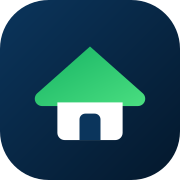
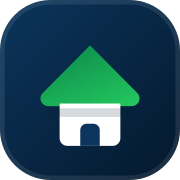
Refresh the Properties Pak mark and publish WordbitX social profiles
Logo: the roof now uses the site's own greens (forest-700 -> forest-500) instead
of the mismatched #16B364 -> #4ADE80 ramp, with a tighter eave, a hairline inner
ring on the tile and a soft shadow under the eave so the mark keeps depth at
navbar size. Applied to the React mark, app/icon.svg, the asset generator (PNG
+ ICO regenerated) and the OG card.

Footer: real WordbitX profiles (Instagram, LinkedIn, YouTube, X, TikTok) now
render as a Follow WordbitX row, wired to SITE.companySocial so empty platforms
are omitted, plus a TikTok icon. The parent Organization sameAs no longer points
at bare linkedin.com/facebook.com/instagram.com roots. Design proof sheets saved
under docs/brand/.

diff --git a/src/components/icons.tsx b/src/components/icons.tsx
@@ -302,6 +302,14 @@ export function IconYouTube(props: IconProps) {
   );
 }
 
+export function IconTikTok(props: IconProps) {
+  return (
+    <svg viewBox="0 0 24 24" aria-hidden="true" fill="currentColor" {...props}>
+      <path d="M16.5 2.6c.4 2.1 1.7 3.3 3.9 3.5v2.7c-1.4.05-2.7-.35-3.9-1.15v6.5c0 3.9-2.9 6.35-6.2 5.75-2.5-.45-4.1-2.5-3.95-5.15.15-2.7 2.4-4.6 5.1-4.35.3.03.5.05.75.12v2.85c-.25-.08-.5-.13-.75-.15-1.3-.1-2.35.75-2.4 2-.05 1.2.85 2.1 2.05 2.05 1.2-.05 2.05-.95 2.05-2.3V2.6Z" />
+    </svg>
+  );
+}
+
 export function IconX(props: IconProps) {
   return (
     <svg viewBox="0 0 24 24" aria-hidden="true" fill="currentColor" {...props}>
@@ -316,26 +324,31 @@ export function IconX(props: IconProps) {
 
 /**
  * Properties Pak brand mark — a green canopy roof over a solid body with a
- * navy doorway on a deep-navy tile. Vector-only so it stays crisp from 16px
- * favicons up to the 512px app icon.
+ * navy doorway on a deep-navy tile. The roof uses the site's own greens
+ * (forest-700 → forest-500), the eave casts a hairline shadow so the mark keeps
+ * depth at large sizes, and the tile carries a 9% inner ring so it stays crisp
+ * on light backgrounds. Vector-only so it reads cleanly from 16px favicons up
+ * to the 512px app icon.
  */
 export function IconLogo({ className }: { className?: string }) {
   return (
     <svg viewBox="0 0 48 48" aria-hidden="true" className={className}>
       <defs>
-        <linearGradient id="ppMarkBg" x1="0" y1="0" x2="1" y2="1">
+        <linearGradient id="ppMarkTile" x1="0" y1="0" x2="1" y2="1">
           <stop offset="0" stopColor="#0B355C" />
           <stop offset="1" stopColor="#04182C" />
         </linearGradient>
-        <linearGradient id="ppMarkRoof" x1="0" y1="0" x2="1" y2="1">
-          <stop offset="0" stopColor="#16B364" />
-          <stop offset="1" stopColor="#4ADE80" />
+        <linearGradient id="ppMarkRoof" x1="0.15" y1="0" x2="0.85" y2="1">
+          <stop offset="0" stopColor="#0D8A4C" />
+          <stop offset="1" stopColor="#22C55E" />
         </linearGradient>
       </defs>
-      <rect width="48" height="48" rx="13" fill="url(#ppMarkBg)" />
-      <path d="M24 12.4 9.9 24.9a1.95 1.95 0 0 0 1.29 3.38h25.62a1.95 1.95 0 0 0 1.29-3.38Z" fill="url(#ppMarkRoof)" />
-      <path d="M15.3 27.3h17.4v8.1a1.95 1.95 0 0 1-1.95 1.95H17.25A1.95 1.95 0 0 1 15.3 35.4Z" fill="#FFFFFF" />
-      <path d="M21.2 37.35v-5.5a1.55 1.55 0 0 1 1.55-1.55h2.5a1.55 1.55 0 0 1 1.55 1.55v5.5Z" fill="#0B355C" />
+      <rect width="48" height="48" rx="13.5" fill="url(#ppMarkTile)" />
+      <rect x="0.6" y="0.6" width="46.8" height="46.8" rx="12.9" fill="none" stroke="#FFFFFF" strokeOpacity="0.09" strokeWidth="1.2" />
+      <path d="M24 12.1 11.4 24.8a2.05 2.05 0 0 0 1.37 3.5h22.46a2.05 2.05 0 0 0 1.37-3.5Z" fill="url(#ppMarkRoof)" />
+      <path d="M15.9 27.6h16.2v9.25a2.05 2.05 0 0 1-2.05 2.05H17.95a2.05 2.05 0 0 1-2.05-2.05Z" fill="#FFFFFF" />
+      <path d="M12.6 28.85h22.8v0.95a1.4 1.4 0 0 1-1.4 1.4H14a1.4 1.4 0 0 1-1.4-1.4Z" fill="#04182C" opacity="0.16" />
+      <path d="M21.4 38.9v-4.2a1.7 1.7 0 0 1 1.7-1.7h1.8a1.7 1.7 0 0 1 1.7 1.7v4.2Z" fill="#0B355C" />
     </svg>
   );
 }

diff --git a/src/app/api/og/route.tsx b/src/app/api/og/route.tsx
@@ -6,6 +6,7 @@ export const runtime = "nodejs";
 const NAVY = "#061C33";
 const NAVY_SOFT = "#0B355C";
 const GREEN = "#16B364";
+const GREEN_DEEP = "#0D8A4C";
 
 function clamp(value: string, max: number) {
   return value.length > max ? `${value.slice(0, max - 1).trimEnd()}…` : value;
@@ -28,10 +29,17 @@ export async function GET(request: Request) {
 
   const logo = (
     <svg width="86" height="86" viewBox="0 0 48 48">
-      <rect width="48" height="48" rx="13" fill="#FFFFFF" fillOpacity="0.1" />
-      <path d="M24 12.4 9.9 24.9a1.95 1.95 0 0 0 1.29 3.38h25.62a1.95 1.95 0 0 0 1.29-3.38Z" fill={GREEN} />
-      <path d="M15.3 27.3h17.4v8.1a1.95 1.95 0 0 1-1.95 1.95H17.25A1.95 1.95 0 0 1 15.3 35.4Z" fill="#FFFFFF" />
-      <path d="M21.2 37.35v-5.5a1.55 1.55 0 0 1 1.55-1.55h2.5a1.55 1.55 0 0 1 1.55 1.55v5.5Z" fill={NAVY_SOFT} />
+      <defs>
+        <linearGradient id="ogRoof" x1="0.15" y1="0" x2="0.85" y2="1">
+          <stop offset="0" stopColor={GREEN_DEEP} />
+          <stop offset="1" stopColor={GREEN} />
+        </linearGradient>
+      </defs>
+      <rect width="48" height="48" rx="13.5" fill="#FFFFFF" fillOpacity="0.1" />
+      <path d="M24 12.1 11.4 24.8a2.05 2.05 0 0 0 1.37 3.5h22.46a2.05 2.05 0 0 0 1.37-3.5Z" fill="url(#ogRoof)" />
+      <path d="M15.9 27.6h16.2v9.25a2.05 2.05 0 0 1-2.05 2.05H17.95a2.05 2.05 0 0 1-2.05-2.05Z" fill="#FFFFFF" />
+      <path d="M12.6 28.85h22.8v0.95a1.4 1.4 0 0 1-1.4 1.4H14a1.4 1.4 0 0 1-1.4-1.4Z" fill={NAVY} opacity="0.16" />
+      <path d="M21.4 38.9v-4.2a1.7 1.7 0 0 1 1.7-1.7h1.8a1.7 1.7 0 0 1 1.7 1.7v4.2Z" fill={NAVY_SOFT} />
     </svg>
   );
 

diff --git a/src/lib/constants.ts b/src/lib/constants.ts
@@ -35,15 +35,18 @@ export const SITE = {
   },
   /**
    * Social profiles for the parent company, WordbitX. The footer renders a
-   * "Follow WordbitX" row containing whichever platforms have a URL below;
-   * leave a value empty to hide that platform.
+   * "Follow WordbitX" row containing whichever platforms have a URL below
+   * (see SITE.companySocialLinks); leave a value empty to hide that platform.
+   * Handles verified against the company's own GitHub organisation
+   * (github.com/wordbitx) and X profile.
    */
   companySocial: {
     facebook: "",
-    instagram: "",
-    linkedin: "",
-    youtube: "",
-    x: "",
+    instagram: "https://www.instagram.com/wordbitx",
+    linkedin: "https://www.linkedin.com/company/wordbitx",
+    youtube: "https://www.youtube.com/@wordbitx",
+    x: "https://x.com/wordbitx",
+    tiktok: "https://www.tiktok.com/@wordbitx",
   },
   backlinks: {
     wordbitxHome: "https://wordbitxtech.com/",
@@ -52,6 +55,14 @@ export const SITE = {
     officialPlatform: "https://propertiespak.com",
   },
 };
+
+/**
+ * Published WordbitX profile URLs — platforms without a link are omitted, so
+ * the footer row and structured data only ever reference live accounts.
+ */
+export const COMPANY_SOCIAL_LINKS: string[] = Object.values(SITE.companySocial).filter(
+  (url) => url.trim().length > 0,
+);
 
 export const NAV_LINKS = [
   { label: "Home", href: "/" },

diff --git a/src/lib/seo.ts b/src/lib/seo.ts
@@ -1,5 +1,5 @@
 import type { Metadata } from "next";
-import { SITE } from "@/lib/constants";
+import { COMPANY_SOCIAL_LINKS, SITE } from "@/lib/constants";
 import { ogCard, ogImage } from "@/lib/images";
 import type { Post, Project, Property } from "@/db/schema";
 import { formatArea, formatPrice } from "@/lib/format";
@@ -149,11 +149,7 @@ export function organizationJsonLd() {
       url: SITE.companyUrl,
       email: "info@wordbitxtech.com",
       telephone: SITE.companyPhone,
-      sameAs: [
-        "https://www.linkedin.com/",
-        "https://www.facebook.com/",
-        "https://www.instagram.com/",
-      ],
+      sameAs: COMPANY_SOCIAL_LINKS,
       address: {
         "@type": "PostalAddress",
         addressCountry: "PK",

diff --git a/src/components/site-footer.tsx b/src/components/site-footer.tsx
@@ -6,6 +6,7 @@ import {
   IconInstagram,
   IconLinkedIn,
   IconMail,
+  IconTikTok,
   IconX,
   IconYouTube,
 } from "@/components/icons";
@@ -20,6 +21,7 @@ const COMPANY_SOCIAL = [
   { platform: "LinkedIn", href: SITE.companySocial.linkedin, Icon: IconLinkedIn },
   { platform: "YouTube", href: SITE.companySocial.youtube, Icon: IconYouTube },
   { platform: "X", href: SITE.companySocial.x, Icon: IconX },
+  { platform: "TikTok", href: SITE.companySocial.tiktok, Icon: IconTikTok },
 ].filter((entry) => entry.href.trim().length > 0);
 
 const COLUMNS = [

diff --git a/docs/seo-launch-checklist.md b/docs/seo-launch-checklist.md
@@ -67,6 +67,10 @@ Rich results: paste any listing, project or guide URL into
 6. **Brand properties** — publish the Facebook, Instagram, LinkedIn, YouTube and X
    profiles and paste their URLs into `SITE.social` in `src/lib/constants.ts`
    (they are already wired into `sameAs` structured data and the footer).
+   WordbitX company profiles live in `SITE.companySocial` (same file): the footer
+   renders a "Follow WordbitX" row for every platform that has a URL, and the
+   same list feeds the parent Organization `sameAs`. Platforms are omitted when
+   the value is empty, so a missing account never renders as a dead link.
 
 ## Part 3 — Content plan (this is what wins rankings)
 
